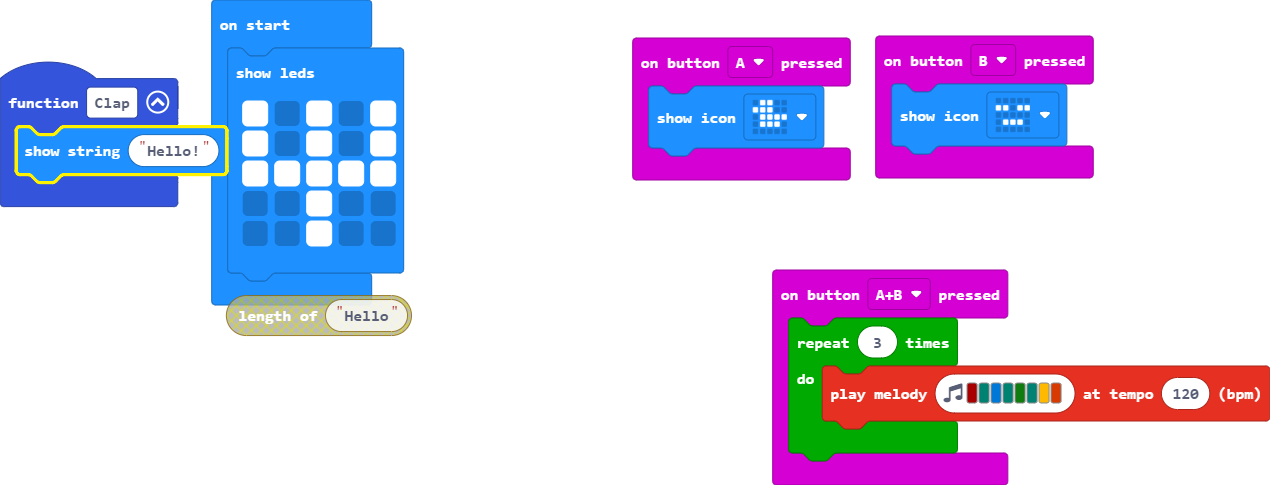
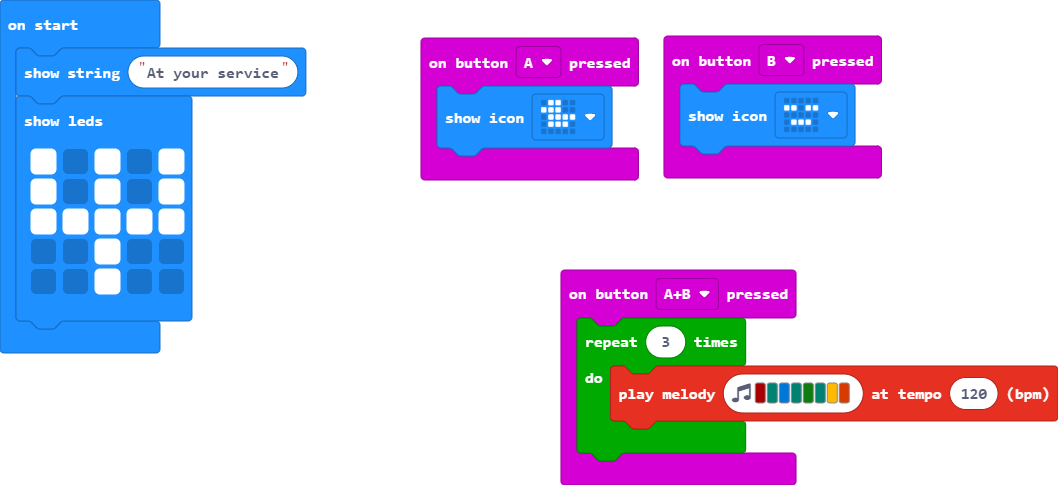
Update main.blocks, main.ts

diff --git a/main.ts b/main.ts
@@ -9,9 +9,7 @@ input.onButtonPressed(Button.AB, function () {
 input.onButtonPressed(Button.B, function () {
     basic.showIcon(IconNames.Asleep)
 })
-function Clap () {
-    basic.showString("Hello!")
-}
+basic.showString("At your service")
 basic.showLeds(`
     # . # . #
     # . # . #
